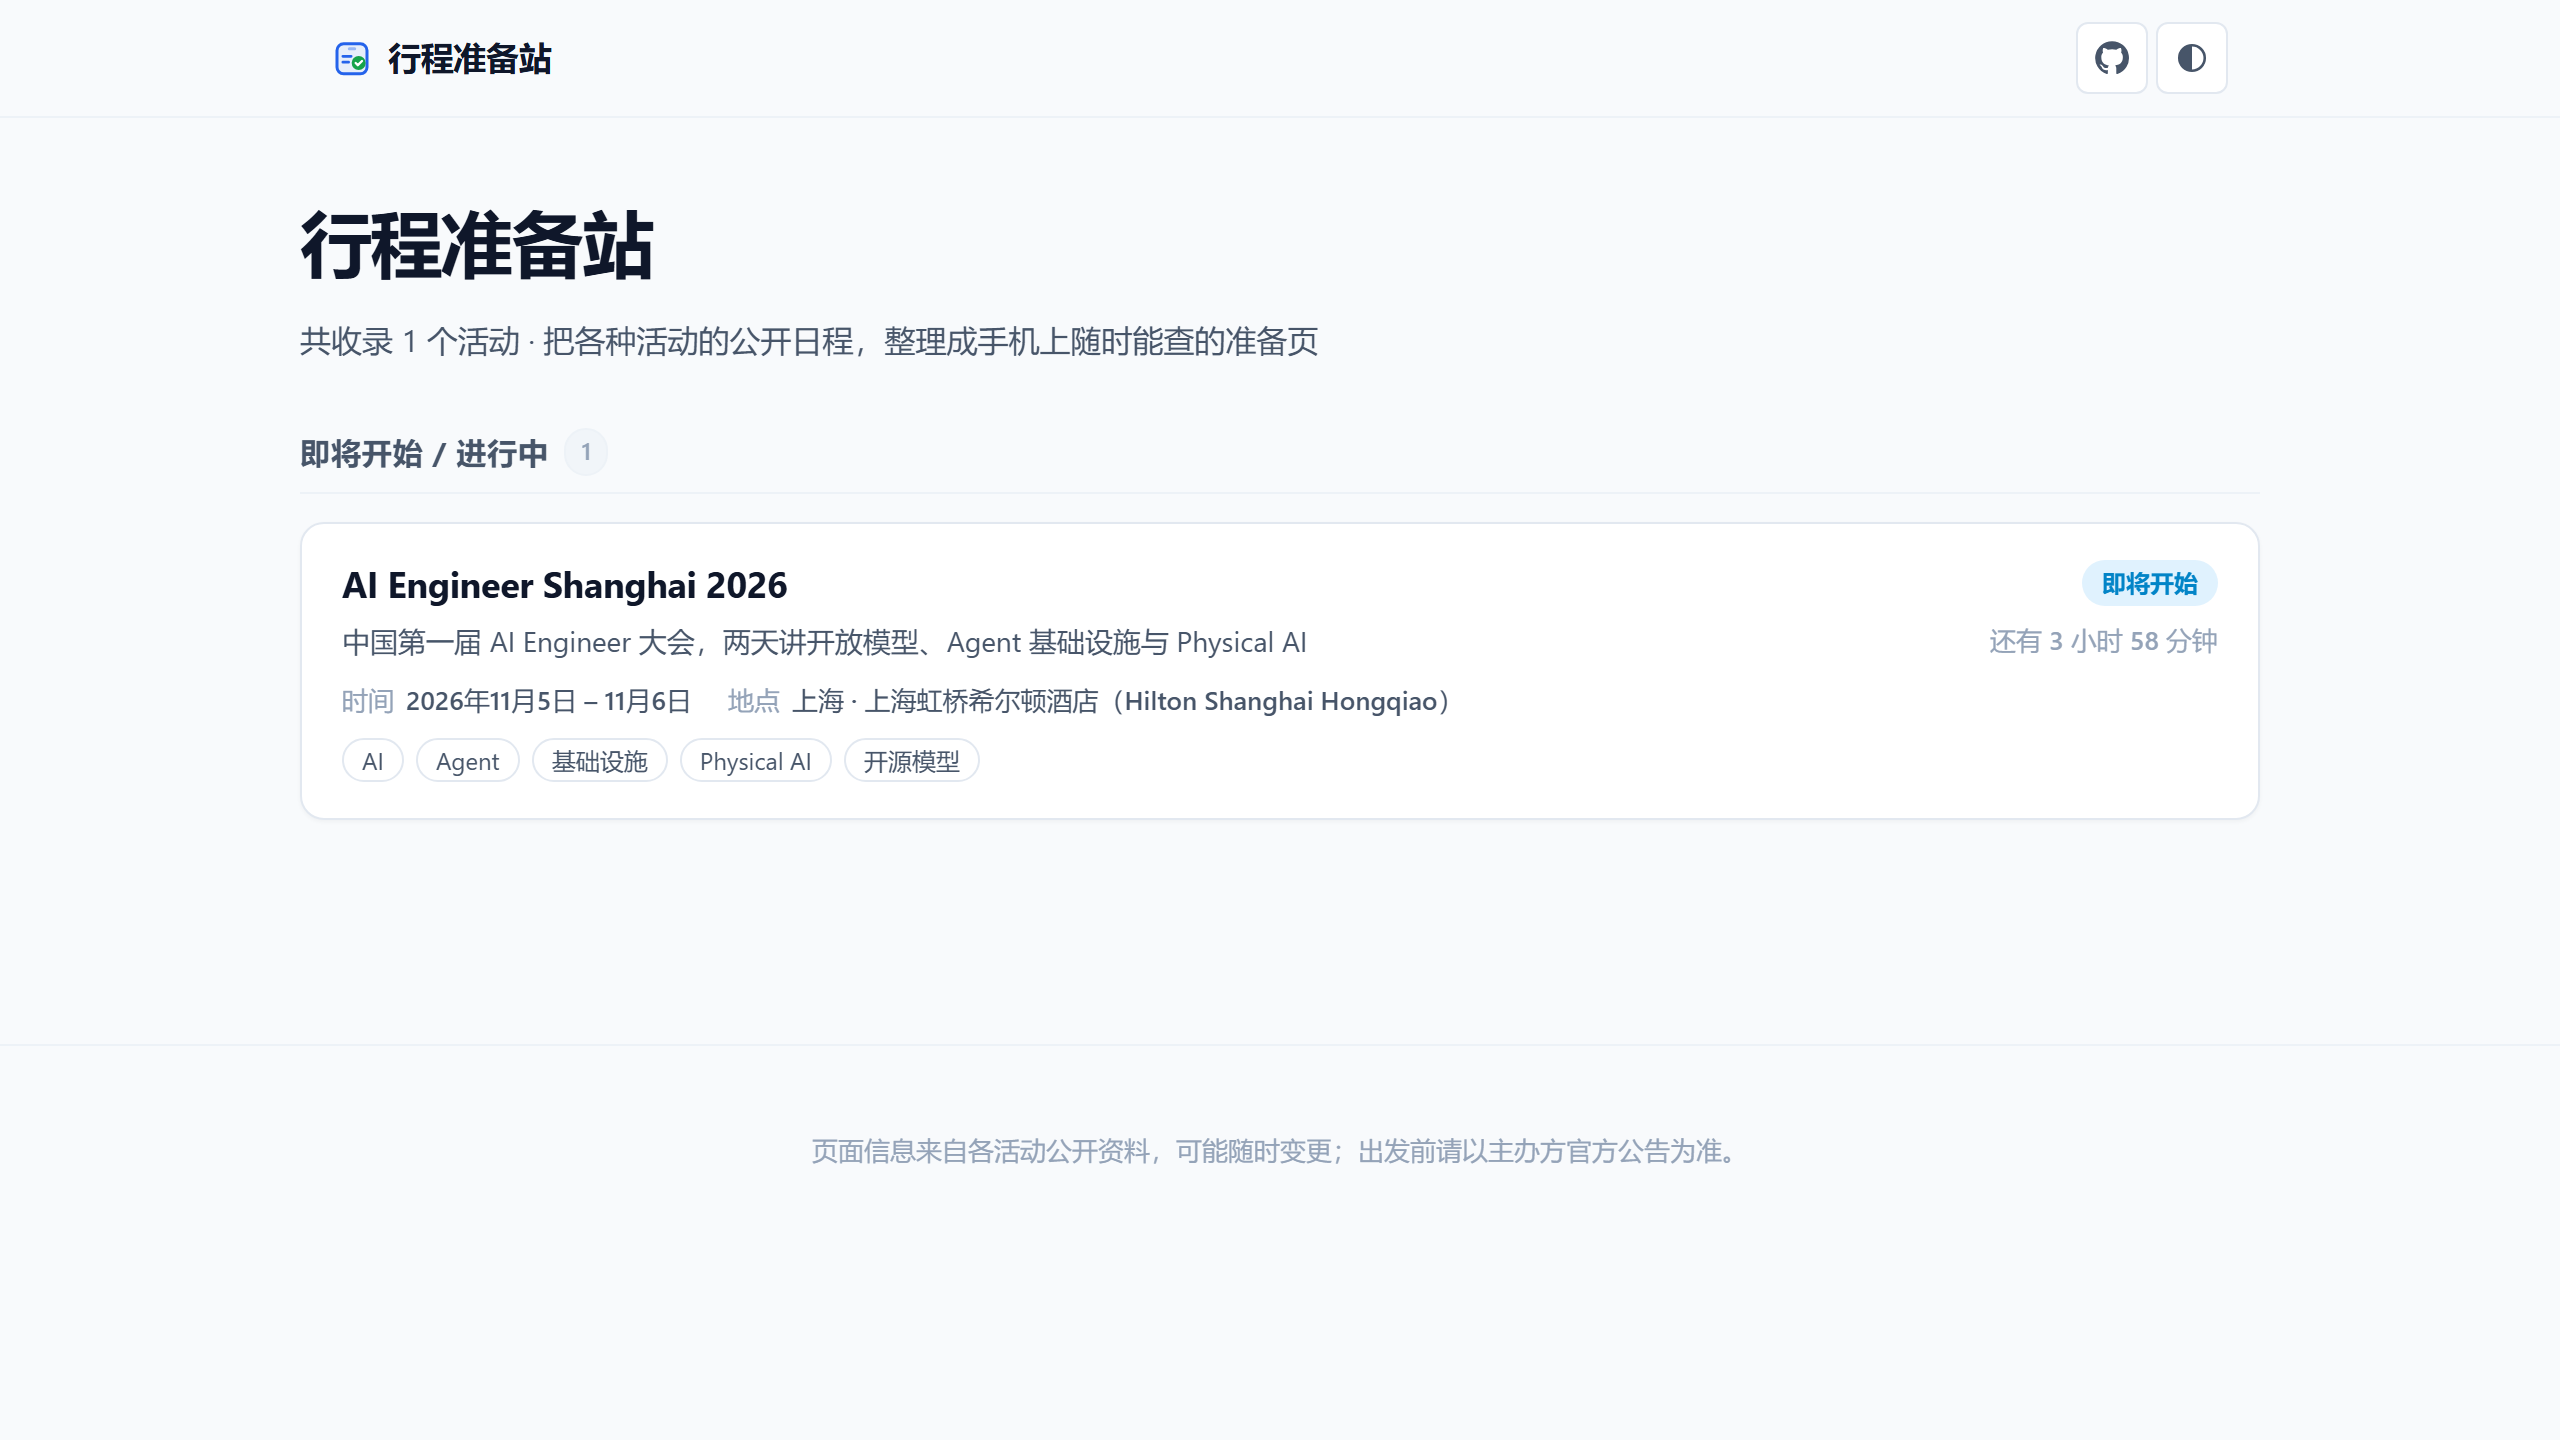
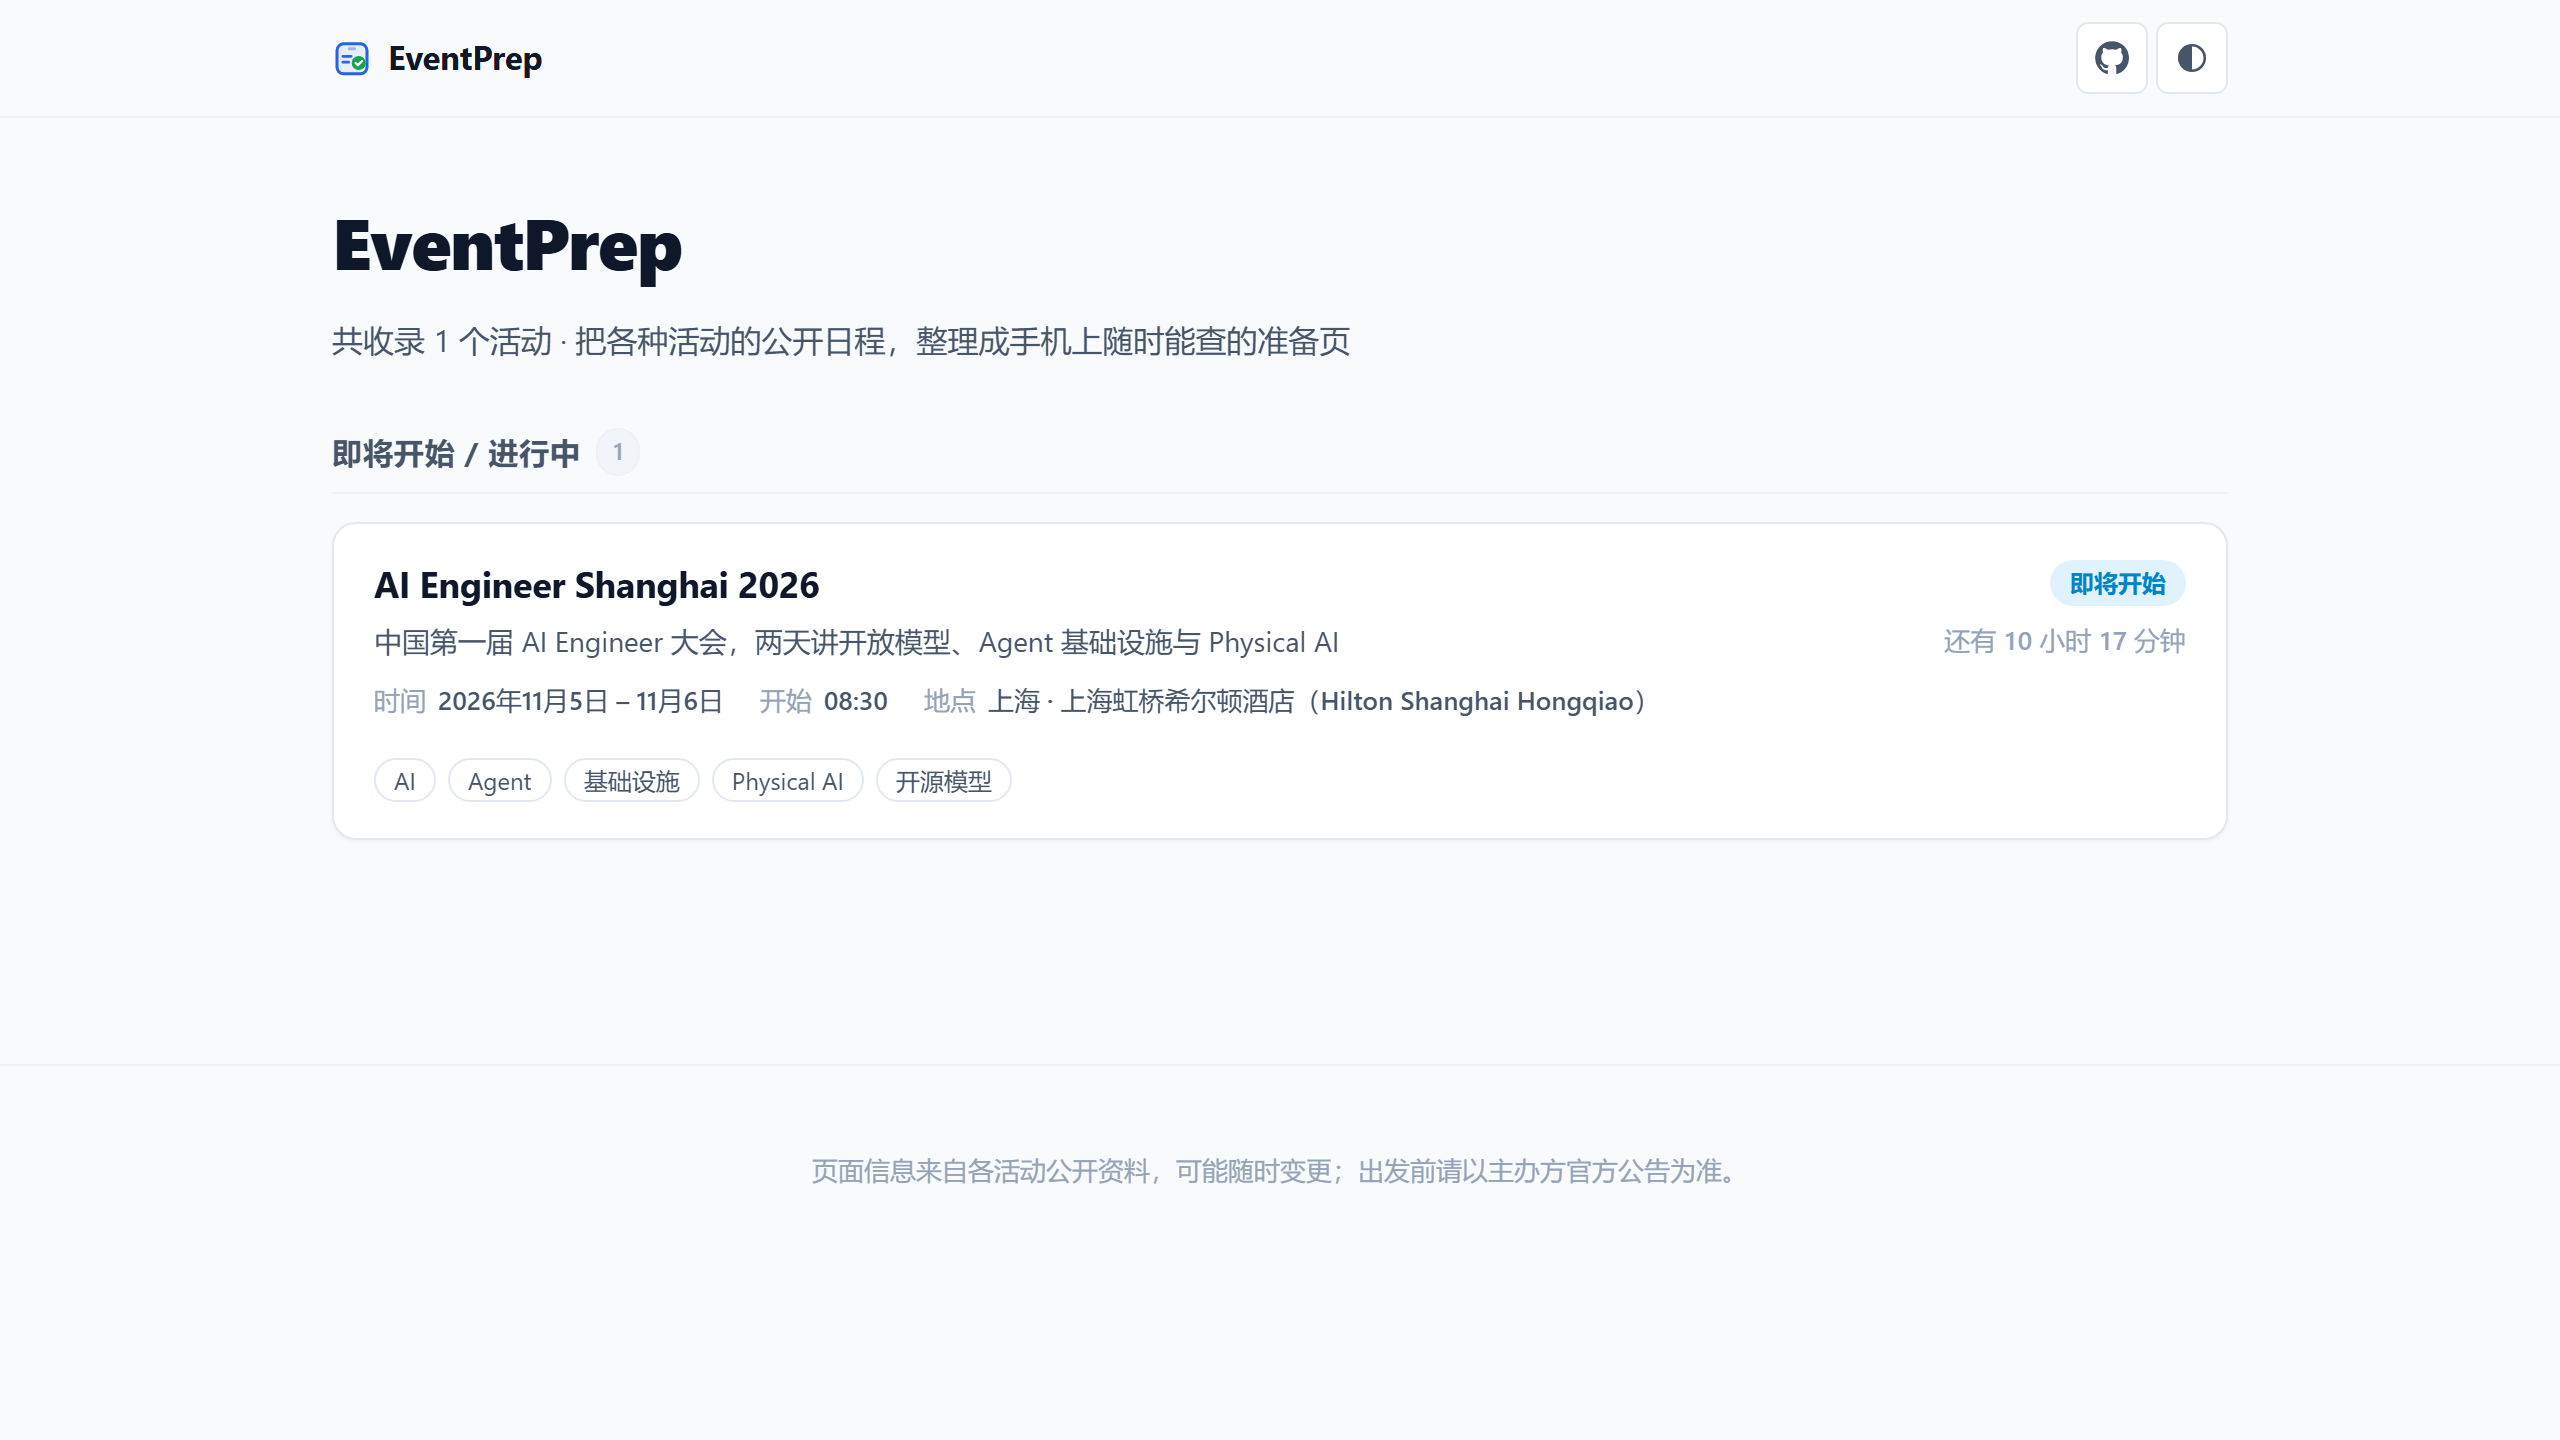
feat(brand): refresh the social preview card and README screenshot
分享卡上原来的结构是「中文大字 + 一行英文小字（Event Prep Station）」——
名字改成 EventPrep 之后，那行英文小字就是重复的了，直接去掉，
把位置留给本来就有的那行说明。

顺带把 docs/images/ 里的两张图重新生成（npm run screenshots）：
README 首屏图上页头和首页大标题也跟着换了名字。

分享卡仍然是 1200x630，og:image 的 width/height 对得上。

diff --git a/scripts/og-card.html b/scripts/og-card.html
@@ -2,7 +2,7 @@
 <html lang="zh-CN">
 <head>
 <meta charset="utf-8">
-<title>行程准备站 · Social Preview</title>
+<title>EventPrep · Social Preview</title>
 <style>
   * {
     box-sizing: border-box;
@@ -87,15 +87,6 @@
     letter-spacing: -0.03em;
     color: #0f172a;
     margin-bottom: 6px;
-  }
-
-  .en-title {
-    font-size: 16px;
-    font-weight: 700;
-    color: #64748b;
-    letter-spacing: 0.12em;
-    text-transform: uppercase;
-    margin-bottom: 18px;
   }
 
   .tagline {
@@ -347,8 +338,7 @@
         <div class="brand-badge">会场门口实用的准备页</div>
       </div>
 
-      <h1 class="brand-title">行程准备站</h1>
-      <div class="en-title">Event Prep Station</div>
+      <h1 class="brand-title">EventPrep</h1>
 
       <p class="tagline">
         把各种活动的公开日程，整理成手机上随时能查的准备页。<br>
